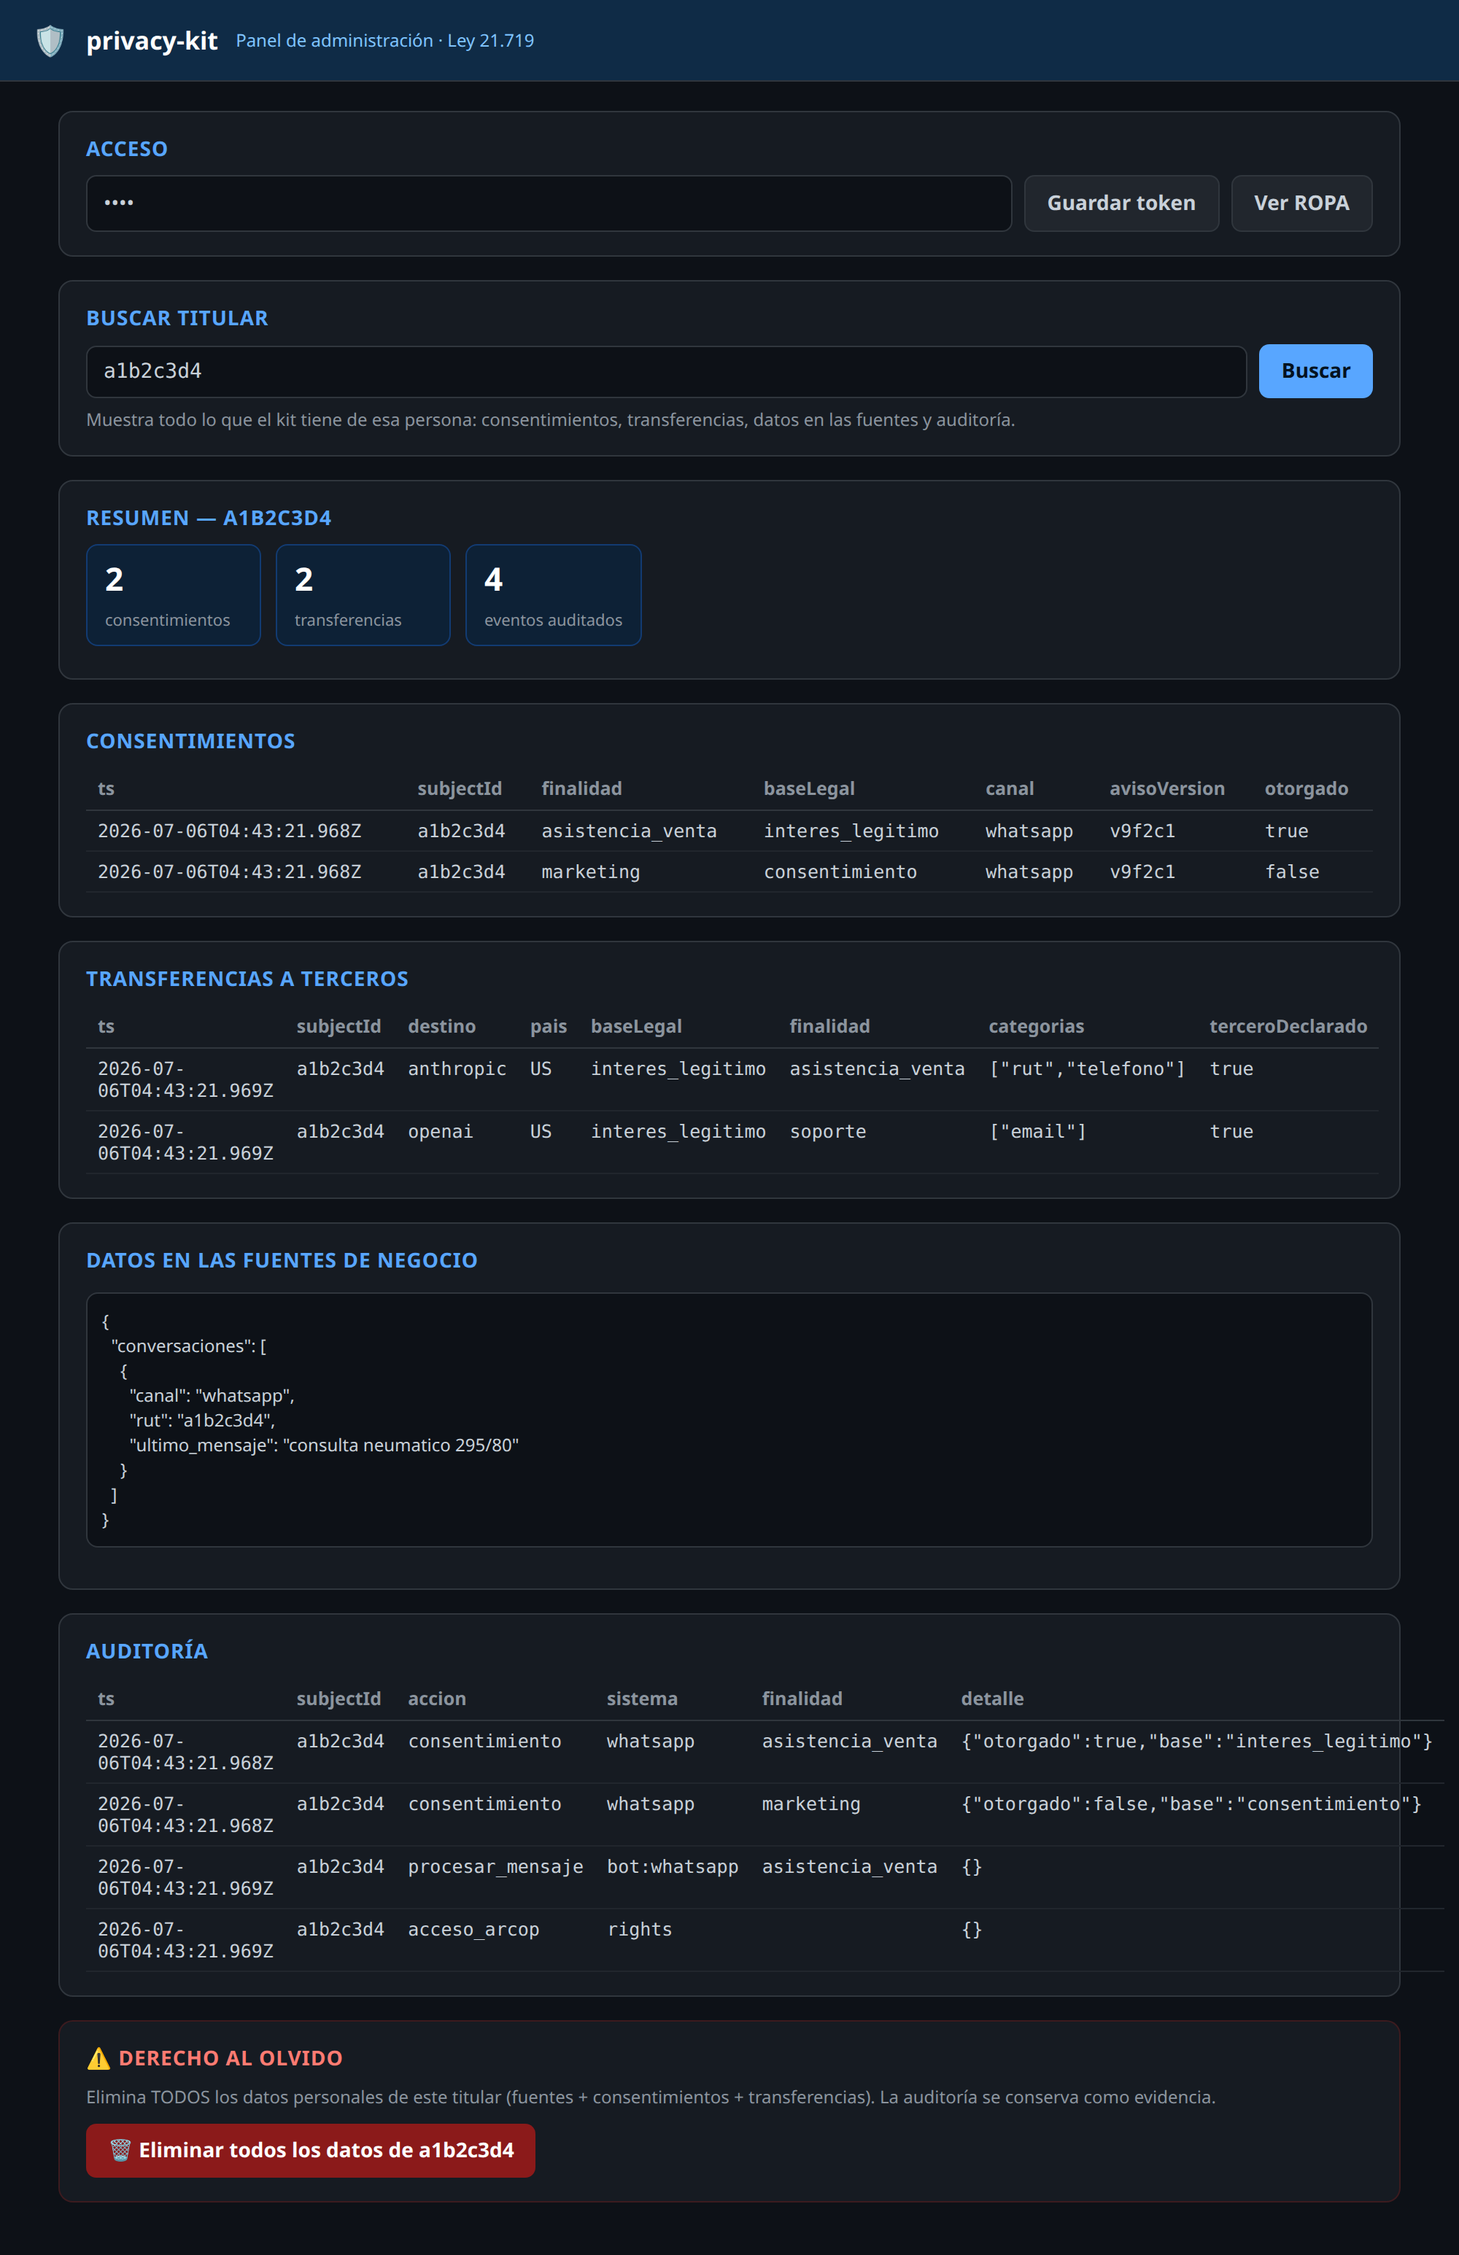
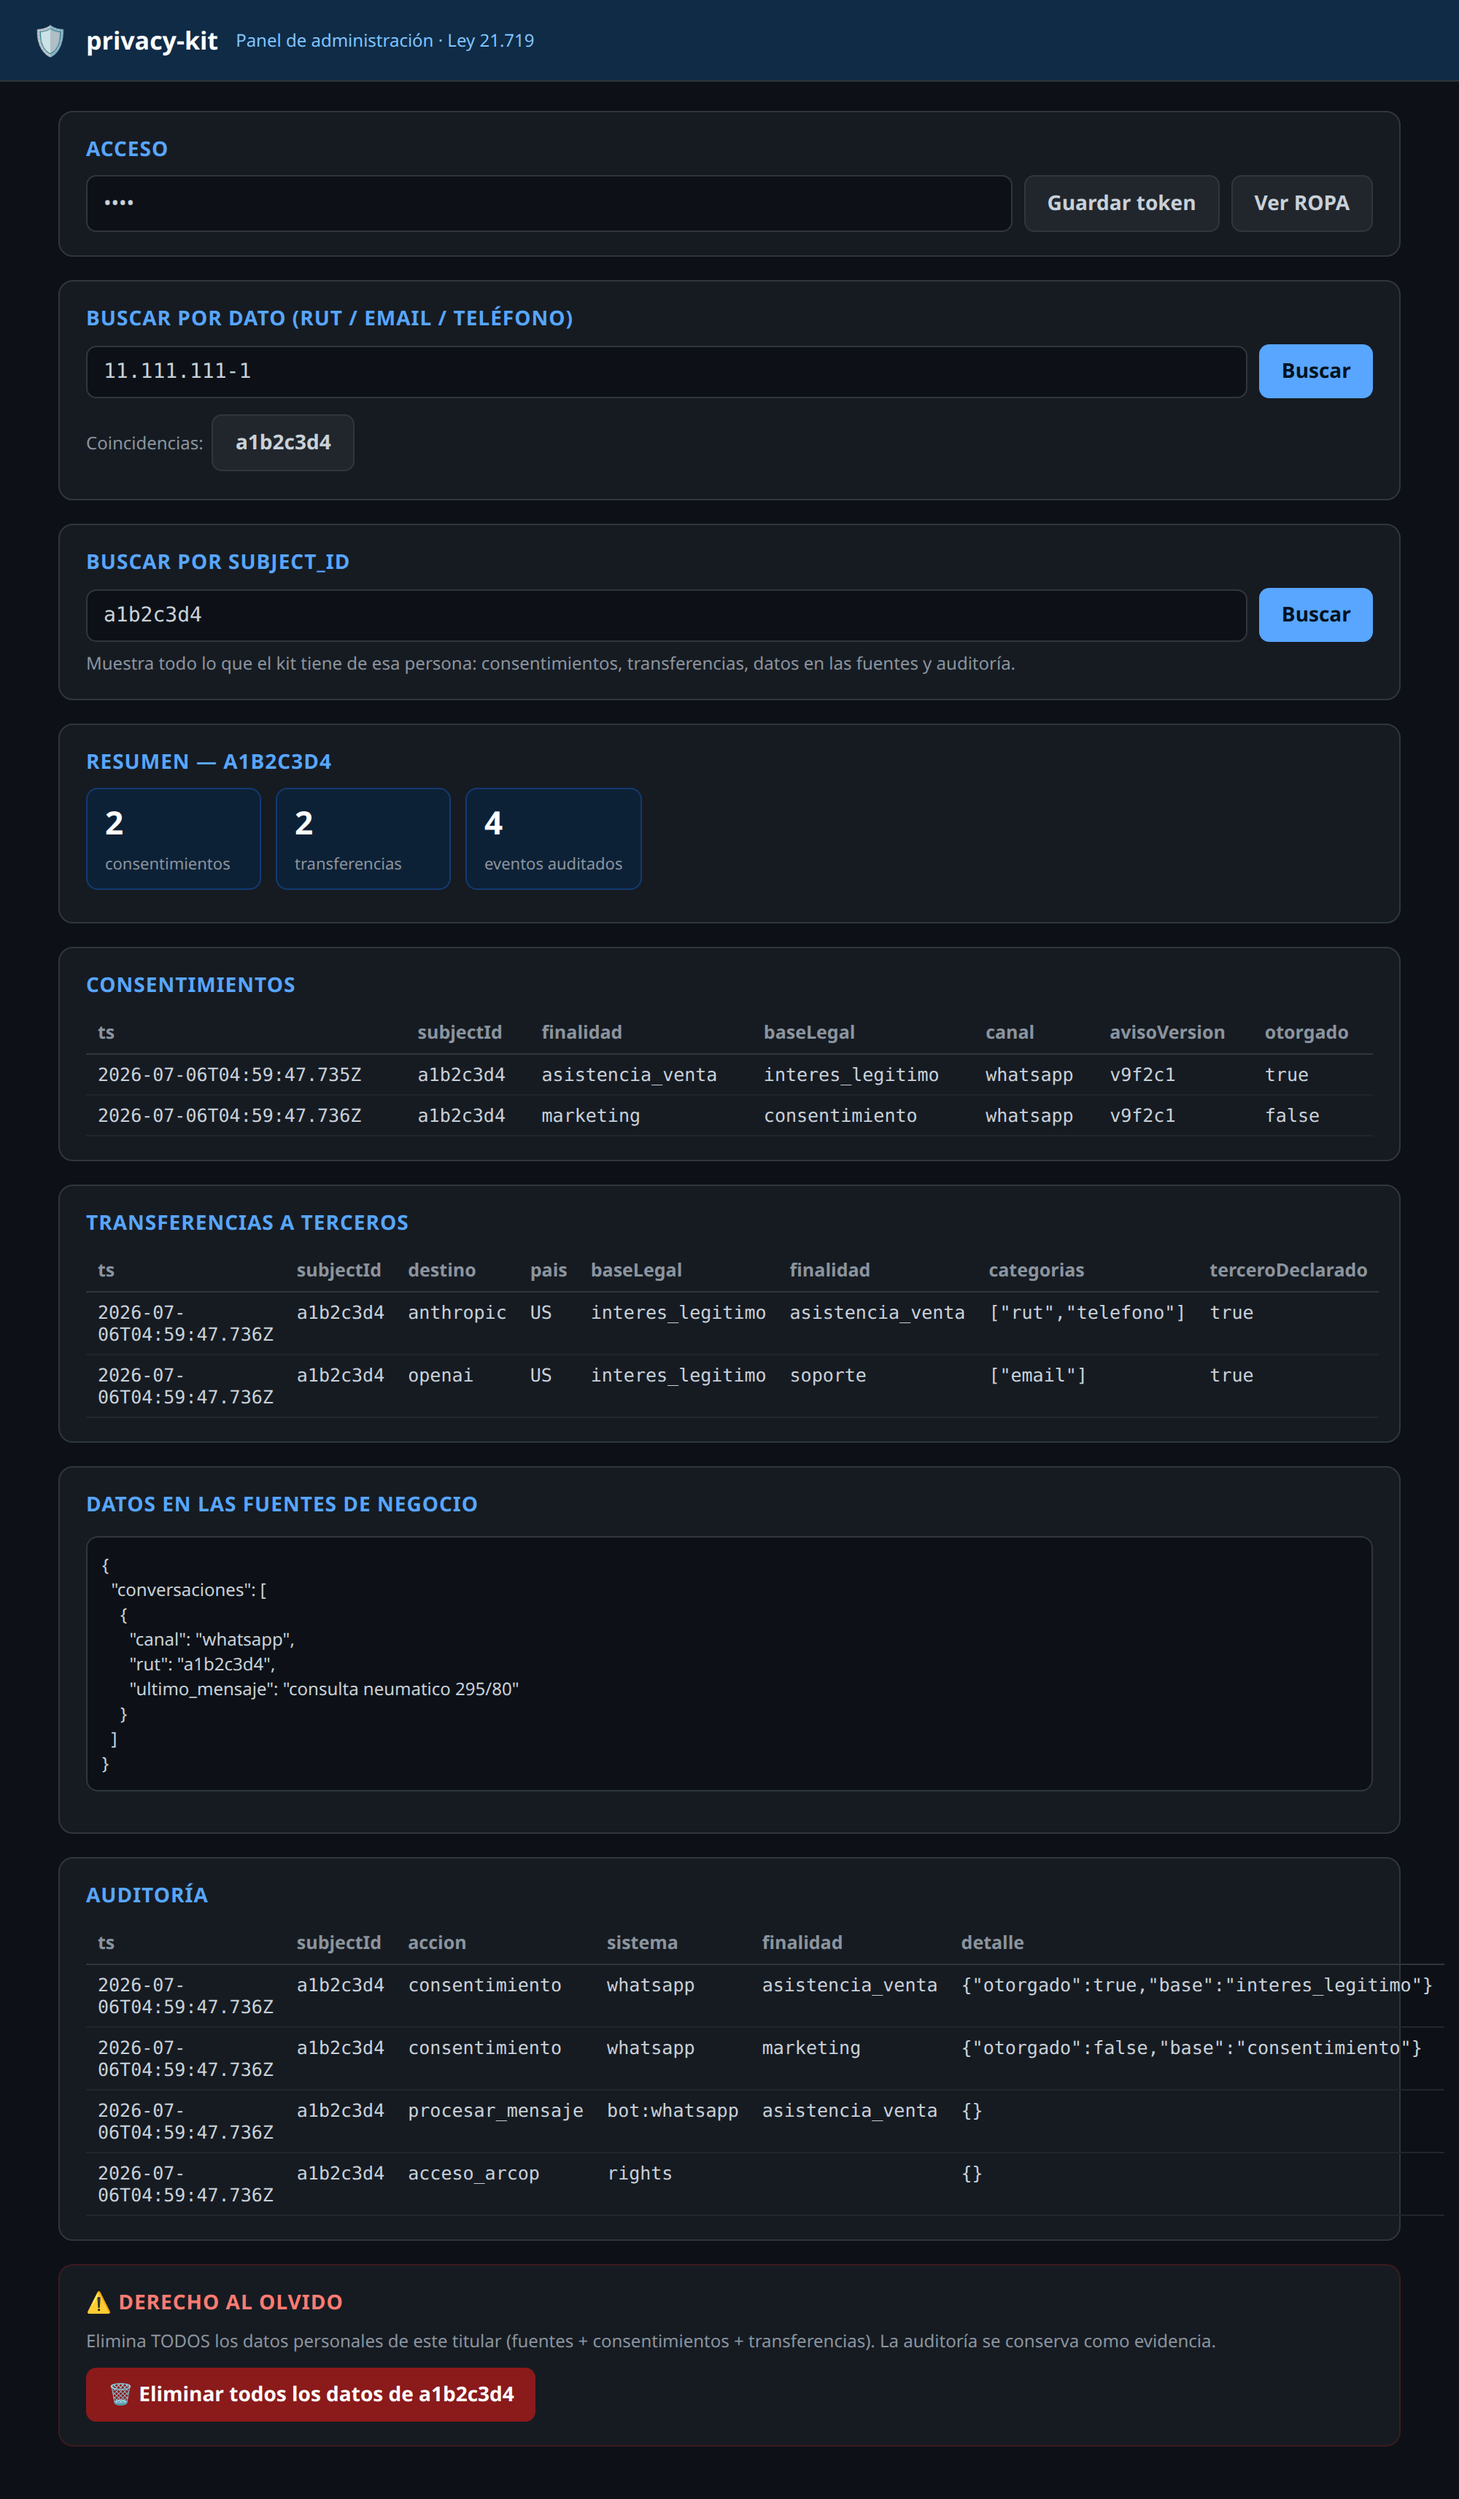
feat: v0.3.0 — búsqueda de titular por dato (RUT/email) vía resolver
- rights.register_resolver(fn) + resolve(): mapea un dato textual a subject_id(s).
  Necesario porque el subject_id es un id interno (hash); la integración sabe el mapeo.
- admin: endpoint GET /api/resolve + caja 'Buscar por dato' en la UI (candidatos
  clickeables que cargan la ficha del titular).
- README: endpoint + ejemplo de resolver; screenshot actualizado.

diff --git a/node/src/admin/index.js b/node/src/admin/index.js
@@ -48,7 +48,15 @@ function html() {
  </div>
 
  <div class="card">
-   <h2>Buscar titular</h2>
+   <h2>Buscar por dato (RUT / email / teléfono)</h2>
+   <div class="row">
+     <input id="q" class="grow mono" placeholder="ej. 11.111.111-1 o cliente@correo.cl">
+     <button onclick="buscarDato()">Buscar</button>
+   </div>
+   <div id="cands" class="muted" style="margin-top:8px">Requiere un resolver registrado (register_resolver) que mapee el dato al subject_id.</div>
+ </div>
+ <div class="card">
+   <h2>Buscar por subject_id</h2>
    <div class="row">
      <input id="sid" class="grow mono" placeholder="subject_id (ej. hash del RUT)">
      <button onclick="buscar()">Buscar</button>
@@ -68,6 +76,14 @@ function toast(m,ok=true){const t=$('#toast');t.style.borderLeftColor=ok?'#3fb95
 async function api(path,opts={}){opts.headers=Object.assign({'Content-Type':'application/json','Authorization':'Bearer '+TOKEN},opts.headers||{});const r=await fetch(path,opts);if(r.status===401){toast('Token inválido o faltante',false);throw new Error('401');}return r.json();}
 function tbl(rows){if(!rows||!rows.length)return '<div class="muted">— sin registros —</div>';const cols=[...new Set(rows.flatMap(r=>Object.keys(r)))];let h='<table><tr>'+cols.map(c=>'<th>'+c+'</th>').join('')+'</tr>';for(const row of rows){h+='<tr>'+cols.map(c=>'<td class="mono">'+fmt(row[c])+'</td>').join('')+'</tr>';}return h+'</table>';}
 function fmt(v){if(v==null)return '';if(typeof v==='object')return JSON.stringify(v);return String(v);}
+async function buscarDato(){
+  const q=$('#q').value.trim();if(!q){toast('Ingresa un dato',false);return;}
+  let d;try{d=await api('/api/resolve?q='+encodeURIComponent(q));}catch(e){return;}
+  if(!d.supported){$('#cands').innerHTML='<span style="color:#ff7b72">No hay resolver configurado. Registra uno con register_resolver(fn) para buscar por RUT/email/teléfono.</span>';return;}
+  if(!d.results.length){$('#cands').textContent='Sin coincidencias.';return;}
+  $('#cands').innerHTML='Coincidencias: '+d.results.map(id=>'<button class="ghost" style="margin:3px" onclick="pick(\\''+id+'\\')">'+id+'</button>').join('');
+}
+function pick(id){$('#sid').value=id;buscar();}
 async function buscar(){
   const id=$('#sid').value.trim();if(!id){toast('Ingresa un subject_id',false);return;}
   let d;try{d=await api('/api/subject?id='+encodeURIComponent(id));}catch(e){return;}
@@ -119,6 +135,10 @@ function serveAdmin(pk, opts = {}) {
       try {
         if (req.method === 'GET' && u.pathname === '/api/health') return send(res, 200, { ok: true });
         if (req.method === 'GET' && u.pathname === '/api/ropa') return send(res, 200, { ropa: pk.exportRopa() });
+        if (req.method === 'GET' && u.pathname === '/api/resolve') {
+          const results = pk.resolve(u.searchParams.get('q') || '');
+          return send(res, 200, { supported: results !== null, results: results || [] });
+        }
         if (req.method === 'GET' && u.pathname === '/api/subject') {
           const id = u.searchParams.get('id') || '';
           return send(res, 200, pk.subjectReport(id));

diff --git a/node/src/rights.js b/node/src/rights.js
@@ -4,12 +4,23 @@
 class RightsManager {
   constructor(store, config, audit) {
     this.store = store; this.config = config; this.audit = audit;
-    this._sources = {}; // name -> { fetch, del, rectify }
+    this._sources = {};  // name -> { fetch, del, rectify }
+    this._resolver = null;
   }
 
   // del/rectify opcionales. (se usa `del` porque `delete` es palabra reservada)
   registerSource(name, { fetch, del = null, rectify = null }) {
     this._sources[name] = { fetch, del, rectify };
+  }
+
+  // Resolver opcional: mapea un dato textual (RUT/email/teléfono/nombre) a subject_id(s).
+  // Lo implementa tu integración (sabe cómo genera el subject_id). fn(query) -> string[]
+  registerResolver(fn) { this._resolver = fn; }
+
+  resolve(query) {
+    if (!this._resolver) return null;              // null => no configurado
+    const r = this._resolver(query);
+    return (Array.isArray(r) ? r : [r]).filter(Boolean).map(String);
   }
 
   access(subjectId) {

diff --git a/node/src/index.js b/node/src/index.js
@@ -29,6 +29,9 @@ class PrivacyKit {
 
   exportRopa() { return buildRopa(this.config); }
 
+  /** Busca subject_id(s) a partir de un dato textual (RUT/email/…) vía el resolver registrado. */
+  resolve(query) { return this.rights.resolve(query); }
+
   /** Reporte agregado de TODO lo que el kit tiene de un titular (para atender "acceso"). */
   subjectReport(subjectId) {
     return {

diff --git a/python/privacy_kit/admin.py b/python/privacy_kit/admin.py
@@ -50,7 +50,15 @@ PAGE = r"""<!DOCTYPE html><html lang="es"><head><meta charset="utf-8">
    </div>
  </div>
  <div class="card">
-   <h2>Buscar titular</h2>
+   <h2>Buscar por dato (RUT / email / teléfono)</h2>
+   <div class="row">
+     <input id="q" class="grow mono" placeholder="ej. 11.111.111-1 o cliente@correo.cl">
+     <button onclick="buscarDato()">Buscar</button>
+   </div>
+   <div id="cands" class="muted" style="margin-top:8px">Requiere un resolver registrado (register_resolver) que mapee el dato al subject_id.</div>
+ </div>
+ <div class="card">
+   <h2>Buscar por subject_id</h2>
    <div class="row">
      <input id="sid" class="grow mono" placeholder="subject_id (ej. hash del RUT)">
      <button onclick="buscar()">Buscar</button>
@@ -69,6 +77,14 @@ function toast(m,ok=true){const t=$('#toast');t.style.borderLeftColor=ok?'#3fb95
 async function api(path,opts={}){opts.headers=Object.assign({'Content-Type':'application/json','Authorization':'Bearer '+TOKEN},opts.headers||{});const r=await fetch(path,opts);if(r.status===401){toast('Token inválido o faltante',false);throw new Error('401');}return r.json();}
 function tbl(rows){if(!rows||!rows.length)return '<div class="muted">— sin registros —</div>';const cols=[...new Set(rows.flatMap(r=>Object.keys(r)))];let h='<table><tr>'+cols.map(c=>'<th>'+c+'</th>').join('')+'</tr>';for(const row of rows){h+='<tr>'+cols.map(c=>'<td class="mono">'+fmt(row[c])+'</td>').join('')+'</tr>';}return h+'</table>';}
 function fmt(v){if(v==null)return '';if(typeof v==='object')return JSON.stringify(v);return String(v);}
+async function buscarDato(){
+  const q=$('#q').value.trim();if(!q){toast('Ingresa un dato',false);return;}
+  let d;try{d=await api('/api/resolve?q='+encodeURIComponent(q));}catch(e){return;}
+  if(!d.supported){$('#cands').innerHTML='<span style="color:#ff7b72">No hay resolver configurado. Registra uno con register_resolver(fn) para buscar por RUT/email/teléfono.</span>';return;}
+  if(!d.results.length){$('#cands').textContent='Sin coincidencias.';return;}
+  $('#cands').innerHTML='Coincidencias: '+d.results.map(id=>'<button class="ghost" style="margin:3px" onclick="pick(\''+id+'\')">'+id+'</button>').join('');
+}
+function pick(id){$('#sid').value=id;buscar();}
 async function buscar(){
   const id=$('#sid').value.trim();if(!id){toast('Ingresa un subject_id',false);return;}
   let d;try{d=await api('/api/subject?id='+encodeURIComponent(id));}catch(e){return;}
@@ -129,6 +145,10 @@ def serve_admin(pk, enabled: bool | None = None, port: int | None = None,
                 if not self._auth_ok(): return self._json(401, {"error": "no autorizado"})
                 if u.path == "/api/health": return self._json(200, {"ok": True})
                 if u.path == "/api/ropa": return self._json(200, {"ropa": pk.export_ropa()})
+                if u.path == "/api/resolve":
+                    q = parse_qs(u.query).get("q", [""])[0]
+                    results = pk.resolve(q)
+                    return self._json(200, {"supported": results is not None, "results": results or []})
                 if u.path == "/api/subject":
                     sid = (parse_qs(u.query).get("id", [""])[0])
                     return self._json(200, pk.subject_report(sid))

diff --git a/python/privacy_kit/rights.py b/python/privacy_kit/rights.py
@@ -19,11 +19,25 @@ class RightsManager:
         self.audit = audit
         # fuentes de datos personales del sistema: nombre -> (buscar, borrar, rectificar)
         self._sources: dict[str, dict[str, Callable]] = {}
+        self._resolver: Callable[[str], list] | None = None
 
     def register_source(self, name: str, *, fetch: Callable[[str], list],
                         delete: Callable[[str], int] | None = None,
                         rectify: Callable[[str, dict], int] | None = None) -> None:
         self._sources[name] = {"fetch": fetch, "delete": delete, "rectify": rectify}
+
+    def register_resolver(self, fn: Callable[[str], list]) -> None:
+        """Resolver opcional: mapea un dato textual (RUT/email/…) a subject_id(s).
+        Lo implementa tu integración (sabe cómo genera el subject_id)."""
+        self._resolver = fn
+
+    def resolve(self, query: str):
+        if self._resolver is None:
+            return None  # no configurado
+        r = self._resolver(query)
+        if not isinstance(r, (list, tuple)):
+            r = [r]
+        return [str(x) for x in r if x]
 
     # --- Acceso + Portabilidad ---
     def access(self, subject_id: str) -> dict[str, list]:

diff --git a/python/privacy_kit/__init__.py b/python/privacy_kit/__init__.py
@@ -12,7 +12,7 @@ from .transfers import TransferRegistry
 from .notice import NoticeBuilder
 from .store.base import PrivacyStore, InMemoryStore
 
-__version__ = "0.2.0"
+__version__ = "0.3.0"
 
 
 @dataclass
@@ -49,6 +49,10 @@ class PrivacyKit:
         """Genera el Registro de Actividades de Tratamiento (ROPA) a partir del config."""
         from .ropa import build_ropa
         return build_ropa(self.config)
+
+    def resolve(self, query: str):
+        """Busca subject_id(s) a partir de un dato textual vía el resolver registrado."""
+        return self.rights.resolve(query)
 
     def subject_report(self, subject_id: str) -> dict:
         """Reporte agregado de TODO lo que el kit tiene de un titular (derecho de acceso)."""

diff --git a/README.md b/README.md
@@ -118,10 +118,19 @@ pk.serve_admin()
 
 | Método | Ruta | Qué hace |
 |---|---|---|
+| GET | `/api/resolve?q=<dato>` | Busca `subject_id`(s) por **RUT/email/teléfono** (requiere resolver registrado). |
 | GET | `/api/subject?id=<id>` | Todo lo del titular: consentimientos, transferencias, datos en fuentes y auditoría. |
 | POST | `/api/subject/forget` `{id}` | **Derecho al olvido**: borra todos sus datos (la auditoría se conserva como evidencia). |
 | GET | `/api/ropa` | Registro de Actividades de Tratamiento. |
 | GET | `/api/health` | Estado. |
+
+**Buscar por dato (RUT/email):** como el `subject_id` es un id interno (idealmente un hash), tu integración registra un *resolver* que sabe mapear el dato real al id:
+```js
+pk.rights.registerResolver(rut => db.usuarios.find({ rut }).map(u => u.subjectId)); // node
+```
+```python
+pk.rights.register_resolver(lambda rut: [u["subject_id"] for u in db.find("usuarios", {"rut": rut})])  # python
+```
 
 ⚠ Superficie sensible: exponla **solo en red interna/VPN** y siempre con token. Cada acción queda auditada.
 
